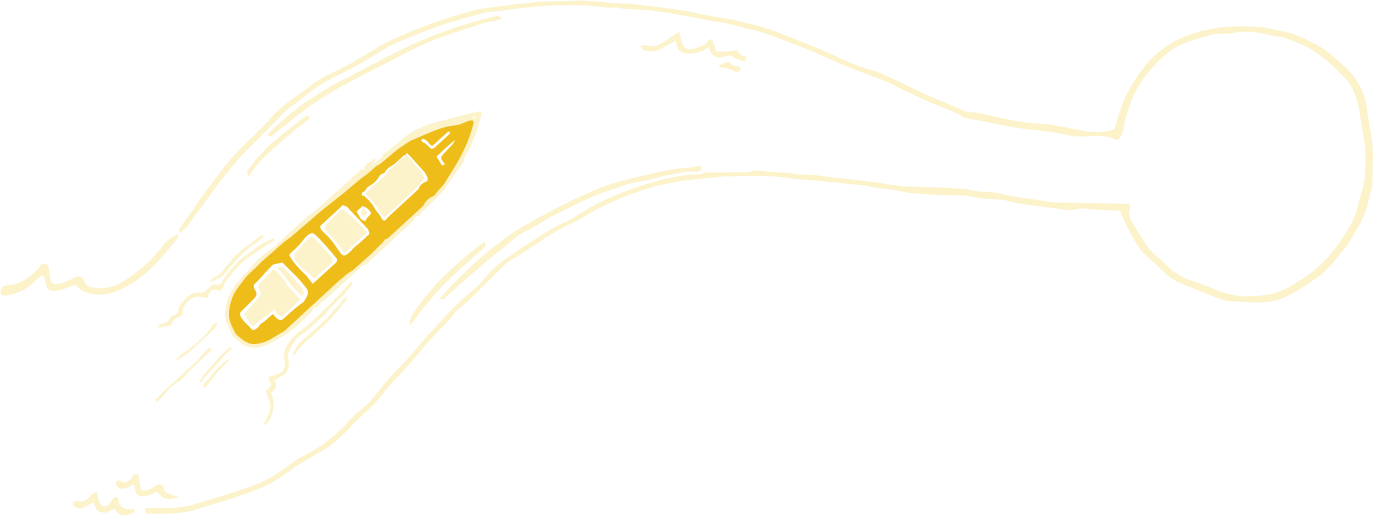
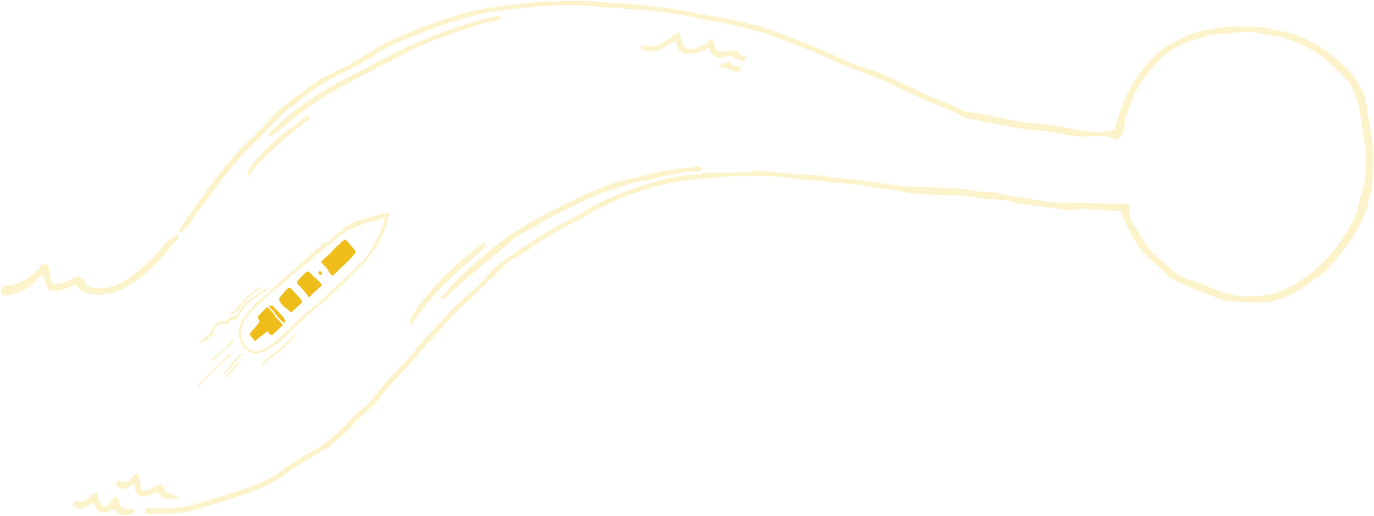
,

Changed region(s): [[0.1224, 0.2171, 0.3671, 0.7752]]

diff --git a/index.html b/index.html
@@ -276,6 +276,13 @@ body {
 }
 #rubberPolaroid img { display: block; width: 100%; aspect-ratio: 1/1; object-fit: cover; }
 
+#backBtn {
+  display: none; position: fixed; bottom: 2.5rem; left: 2.5rem; z-index: 50;
+  background: none; border: none; color: #fcf1ca; font-family: var(--font-mono);
+  font-size: 0.85rem; padding: 0; cursor: pointer; transition: color 0.2s; letter-spacing: 0.05em;
+}
+#backBtn:hover { color: #ffffff; }
+
 #journey { height: 500vh; position: relative; }
 #journey-sticky { position: sticky; top: 0; height: 100vh; overflow: hidden; }
 #journey-track { display: flex; height: 100%; will-change: transform; }
@@ -304,12 +311,28 @@ body {
 #reclaimedTrigger { transition: color 0.2s ease; }
 #reclaimedTrigger:hover { color: #ffffff !important; }
 
+/* Reclaimed / bio rubber info box */
+#reclaimed-info {
+  position: absolute;
+  top: 45%; left: 52vw;
+  transform: translateY(-50%) translateX(20px);
+  width: min(380px, 38vw);
+  background: transparent; border: none;
+  padding: 2rem 1.75rem; z-index: 6;
+  pointer-events: none; opacity: 0;
+  transition: opacity 0.4s ease, transform 0.4s ease;
+  text-align: left;
+}
+#reclaimed-info.visible { opacity: 1; transform: translateY(-50%) translateX(0); pointer-events: auto; }
+#reclaimed-info h3 { font-family: var(--font-display); font-size: 1.2rem; font-weight: 700; color: #eebc1c; margin-bottom: 0.75rem; line-height: 1.2; }
+#reclaimed-info p { color: #fcf1ca; font-size: 0.85rem; line-height: 1.7; }
+
 /* Manufacturing info box */
 #shipping-info {
   position: absolute;
-  top: 45%; right: 1vw;
+  top: 45%; right: -5vw;
   transform: translateY(-50%) translateX(20px);
-  width: min(380px, 36vw);
+  width: min(420px, 40vw);
   background: transparent; border: none;
   padding: 2rem 1.75rem; z-index: 6;
   pointer-events: none; opacity: 0;
@@ -353,9 +376,9 @@ body {
 /* Use info box — left-aligned, sits to the right of useshoes.png */
 #use-info {
   position: absolute;
-  top: 50%; right: 40vw;
+  top: 45%; right: 26vw;
   transform: translateY(-50%) translateX(20px);
-  width: min(340px, 32vw);
+  width: min(520px, 40vw);
   background: transparent; border: none;
   padding: 2rem 1.75rem; z-index: 6;
   pointer-events: none; opacity: 0;
@@ -376,14 +399,14 @@ body {
 /* Afterlife info box — left-aligned, sits to the right of afterlife.png */
 #afterlife-info {
   position: absolute;
-  top: 30%; right: auto; left: 45vw;
+  top: 30%; right: auto; left: 35vw;
   transform: translateY(-50%) translateX(20px);
-  width: min(340px, 32vw);
+  width: min(480px, 46vw);
   background: transparent; border: none;
   padding: 2rem 1.75rem; z-index: 6;
   pointer-events: none; opacity: 0;
   transition: opacity 0.4s ease, transform 0.4s ease;
-  text-align: left;
+  text-align: center;
 }
 #afterlife-info.visible { opacity: 1; transform: translateY(-50%) translateX(0); pointer-events: auto; }
 #afterlife-info h3 { font-family: var(--font-display); font-size: 1.2rem; font-weight: 700; color: #eebc1c; margin-bottom: 0.75rem; line-height: 1.2; }
@@ -392,16 +415,9 @@ body {
   margin-top: 1.2rem; font-family: var(--font-display); font-size: 1rem; font-weight: 700;
   color: #eebc1c; line-height: 1.3; cursor: pointer; pointer-events: auto;
   background: none; border: none; padding: 0; display: block; width: 100%;
-  text-align: left; transition: color 0.2s ease;
+  text-align: center; transition: color 0.2s ease;
 }
 #afterlifeContinueBtn:hover { color: #ffffff; }
-
-#backBtn {
-  display: none; position: fixed; bottom: 2.5rem; left: 2.5rem; z-index: 50;
-  background: none; border: none; color: #fcf1ca; font-family: var(--font-mono);
-  font-size: 0.85rem; padding: 0; cursor: pointer; transition: color 0.2s; letter-spacing: 0.05em;
-}
-#backBtn:hover { color: #ffffff; }
 
 .panel-label { position: absolute; bottom: 3rem; left: 2.5rem; z-index: 5; pointer-events: none; }
 .panel-label h2 {
@@ -409,17 +425,21 @@ body {
   font-weight: 700; color: #fff; line-height: 1.1; text-shadow: 0 2px 20px rgba(0,0,0,0.7);
 }
 
-#journey-dots {
-  position: absolute; bottom: 1.5rem; left: 50%;
-  transform: translateX(-50%); display: flex; gap: 0.75rem; z-index: 10;
+/* ── Status image progress tracker ── */
+#status-tracker {
+  position: fixed;
+  bottom: 1.2rem;
+  left: 0;
+  z-index: 50;
+  pointer-events: none;
+  transition: left 0.6s cubic-bezier(0.34, 1.56, 0.64, 1);
 }
-.jdot {
-  width: 8px; height: 8px; border-radius: 50%;
-  border: 1px solid var(--muted); background: transparent;
-  cursor: pointer; padding: 0;
-  transition: background 0.3s, border-color 0.3s, transform 0.3s;
+#status-tracker img {
+  height: 20px;
+  width: auto;
+  display: block;
+  opacity: 0.85;
 }
-.jdot.active { background: var(--accent); border-color: var(--accent); transform: scale(1.4); }
 
 #scroll-nudge {
   position: absolute; bottom: 1.4rem; right: 2rem;
@@ -434,7 +454,7 @@ body {
   #journey-sticky { position: relative; height: auto; overflow: visible; }
   #journey-track { flex-direction: column; transform: none !important; }
   .panel { height: 100vh; }
-  #journey-dots, #scroll-nudge { display: none; }
+  #scroll-nudge { display: none; }
   #shipping-info { right: auto; left: 5%; width: 90%; top: auto; bottom: 10%; transform: none; }
   #shipping-info.visible { transform: none; }
   #shippingText-info { left: 5%; width: 90%; top: 5%; transform: none; }
@@ -476,6 +496,11 @@ body {
     <img src="rubbertreefarm.jpg" alt="Rubber tree farm" />
   </div>
 
+  <!-- Status image progress tracker -->
+  <div id="status-tracker">
+    <img src="status.png" alt="Progress" />
+  </div>
+
   <button id="backBtn">← Back</button>
 
   <div id="journey">
@@ -488,8 +513,8 @@ body {
                style="position:absolute;bottom:8%;left:5vw;height:80%;width:auto;object-fit:contain;object-position:left bottom;pointer-events:none;z-index:1;transition:opacity 0.6s ease;" />
           <img id="makeshipImg" src="shoesmake.png" alt="Making and shipping"
                style="position:absolute;bottom:7%;right:23.5%;height:70%;width:50%;object-fit:contain;object-position:right bottom;pointer-events:none;z-index:1;opacity:0;transition:opacity 0.6s ease;" />
-          <img id="boatImg" src="sustainable rubber.png" alt="Reclaimed or recycled rubber"
-               style="position:absolute;bottom:8%;right:15%;height:50%;width:49.5%;object-fit:contain;object-position:right bottom;pointer-events:none;z-index:1;opacity:0;transition:opacity 0.6s ease;" />
+          <img id="boatImg" src="sustainable rubber.png" alt="Recycled or bio rubber"
+               style="position:absolute;bottom:20%;left:5vw;height:60%;width:auto;object-fit:contain;object-position:left bottom;pointer-events:none;z-index:2;opacity:0;transition:opacity 0.6s ease;" />
           <img id="shippingImg" src="shipping.png" alt="Shipping"
                style="position:absolute;bottom:14%;right:-25%;height:35%;width:auto;object-fit:contain;object-position:right bottom;pointer-events:none;z-index:1;opacity:0;transition:opacity 0.6s ease;" />
 
@@ -497,7 +522,7 @@ body {
             <h3>Making</h3>
             <p>Workers exposed to wood dust from the rubber tree without correct protection experience increased risk of nasal symptoms, wheeze, asthma and skin symptoms and have reduced spirometric lung function.</p>
             <p style="margin-top:1.2rem;font-size:0.7rem;letter-spacing:0.15em;text-transform:uppercase;color:#fcf1ca;opacity:0.6;">skip this step</p>
-            <p id="reclaimedTrigger" style="margin-top:0.3rem;font-family:var(--font-display);font-size:1rem;font-weight:700;color:#eebc1c;line-height:1.3;cursor:pointer;pointer-events:auto;">Buy reclaimed or recycled rubber</p>
+            <p id="reclaimedTrigger" style="margin-top:0.3rem;font-family:var(--font-display);font-size:1rem;font-weight:700;color:#eebc1c;line-height:1.3;cursor:pointer;pointer-events:auto;">Buy recycled or bio rubber</p>
           </div>
 
           <div id="shipping-info">
@@ -510,6 +535,13 @@ body {
             <h3>Shipping</h3>
             <p>The entirety of the manufacturing process, which includes material sourcing, production, transportation, and packaging, pumps millions of tons of CO2 into the atmosphere every year. Most shoe companies use cheap labour, shipping from warehouses based primarily in China, Indonesia, and India and then often sent to the U.S. for global distribution. According to Airportwatch and a DEFRA report, two tonnes of freight carried 1,000km by container ship produces 30kg of CO2, 42kg by diesel train, and a staggering 4,138kg by air.</p>
             <button id="shippingTextContinueBtn">Continue</button>
+          </div>
+
+          <div id="reclaimed-info">
+            <h3>Bio Rubber</h3>
+            <p>Bio-based synthetic rubber is eco-friendly, manufactured from renewable biomass inputs like sugarcane, corn, and forest waste, rather than fossil fuels. It produces a significantly lower carbon footprint while structurally matching petroleum-based synthetic rubbers. Synthesised rubber tend to be more common in the footwear industry than natural rubber, creating a great but underused alternative.</p>
+            <h3 style="margin-top:1.2rem;">Recycled Rubber</h3>
+            <p>Recycled rubber is a highly sustainable material created by processing scrap rubber, primarily from discarded vehicle tires. Through shredding, grinding, and bonding, it is repurposed into versatile, eco-friendly products. It helps reduce landfill waste. With companies like Ecoalf using exclusively recycled materials, including discarded rubber and ocean plastics to create their footwear.</p>
           </div>
         </div>
 
@@ -527,14 +559,16 @@ body {
           <!-- Use info box: right-aligned beside the useshoes image -->
           <div id="use-info">
             <h3>Use</h3>
-            <p>Your text about the use phase goes here. Write about wear patterns, microplastics shed during use, shoe care, how long shoes last, and the environmental impact of consumers buying and discarding shoes.</p>
+            <p>The shift toward fast fashion and synthetic materials like cheap polyurethane, EVA, and blended plastics has drastically reduced modern shoe durability compared to traditional leather and rubber construction. These unsustainable materials break down rapidly, lack resoling capabilities, and contribute to immense textile waste. Shoes 30 years ago were intended to last almost three times longer. </p>
             <button id="useContinueBtn">Continue</button>
           </div>
 
           <!-- Afterlife info box: beside the afterlife image -->
           <div id="afterlife-info">
             <h3>Afterlife</h3>
-            <p>Your text about the afterlife phase goes here. Write about landfill, recycling schemes, shoe donation, incineration, and what happens to the materials once a shoe is discarded.</p>
+            <p>An estimated 22 billion pairs of shoes are sent to landfill annually. 90% of shoes produced each year will eventually end up in landfill, many within the first 12 months of purchase. 
+
+Heavily synthetic materials like foamed rubber soles and certain plastics can take anywhere from 50 to over 1,000 years to fully degrade, leaching chemicals and microplastics into the environment. </p>
             <button id="afterlifeContinueBtn">The End</button>
           </div>
         </div>
@@ -547,12 +581,6 @@ body {
 
       </div>
 
-      <nav id="journey-dots">
-        <button class="jdot active" data-index="0"></button>
-        <button class="jdot" data-index="1"></button>
-        <button class="jdot" data-index="2"></button>
-        <button class="jdot" data-index="3"></button>
-      </nav>
       <p id="scroll-nudge">scroll to continue →</p>
     </div>
   </div>
@@ -742,6 +770,7 @@ if (shoeCanvas) {
 
 /* ── scene element refs ── */
 var makingInfo              = document.getElementById('making-info');
+var rubberTreesImg          = document.getElementById('rubberTreesImg');
 var makeshipImg             = document.getElementById('makeshipImg');
 var boatImg                 = document.getElementById('boatImg');
 var shippingImg             = document.getElementById('shippingImg');
@@ -752,12 +781,29 @@ var shippingInfo            = document.getElementById('shipping-info');
 var shippingContinueBtn     = document.getElementById('shippingContinueBtn');
 var shippingTextInfo        = document.getElementById('shippingText-info');
 var shippingTextContinueBtn = document.getElementById('shippingTextContinueBtn');
+var reclaimedInfo           = document.getElementById('reclaimed-info');
 var useInfo                 = document.getElementById('use-info');
 var useContinueBtn          = document.getElementById('useContinueBtn');
 var afterlifeInfo           = document.getElementById('afterlife-info');
 var afterlifeContinueBtn    = document.getElementById('afterlifeContinueBtn');
 var makingChoice            = null;
 var manufacturingStep       = false;
+
+/* ── Status tracker ── */
+var statusTracker = document.getElementById('status-tracker');
+var STATUS_TOTAL_STEPS = 5;
+var statusCurrentStep  = 0;
+
+function setStatusStep(step) {
+  statusCurrentStep = Math.max(0, Math.min(step, STATUS_TOTAL_STEPS));
+  var imgWidth = 48;
+  var margin   = 16;
+  var usableWidth = window.innerWidth - imgWidth - margin * 2;
+  var leftPx = margin + (statusCurrentStep / STATUS_TOTAL_STEPS) * usableWidth;
+  statusTracker.style.left = leftPx + 'px';
+}
+
+setStatusStep(0);
 
 /* ── scroll to a specific panel index ── */
 function scrollToPanel(idx) {
@@ -790,12 +836,14 @@ function resetMakingScene() {
   if (backBtn)       backBtn.style.display       = 'none';
   if (shippingInfo)     shippingInfo.classList.remove('visible');
   if (shippingTextInfo) shippingTextInfo.classList.remove('visible');
+  if (reclaimedInfo)    reclaimedInfo.classList.remove('visible');
   if (useInfo)          useInfo.classList.remove('visible');
   if (afterlifeInfo)    afterlifeInfo.classList.remove('visible');
+  if (rubberTreesImg)   rubberTreesImg.style.opacity = '1';
   if (makeshipImg)      makeshipImg.style.right  = '33%';
+  setStatusStep(0);
 }
 
-/* Manufacturing Continue → show shipping image + shipping text box */
 function showShippingStep() {
   if (shippingInfo)     shippingInfo.classList.remove('visible');
   if (makeshipImg)      makeshipImg.style.opacity  = '1';
@@ -803,9 +851,9 @@ function showShippingStep() {
   if (shippingTextInfo) shippingTextInfo.classList.add('visible');
   manufacturingStep = false;
   scrollNudge(0.12);
+  setStatusStep(2);
 }
 
-/* Shipping Continue → scroll to Use panel, show useshoes.png + use info box */
 function showUseStep() {
   if (shippingTextInfo) shippingTextInfo.classList.remove('visible');
   scrollToPanel(1);
@@ -813,20 +861,21 @@ function showUseStep() {
     if (useShoesImg) useShoesImg.style.opacity = '1';
     if (useInfo)     useInfo.classList.add('visible');
   }, 700);
+  setStatusStep(3);
 }
 
-/* Use Continue → show afterlife.png + afterlife info box in same panel, no scroll */
 function showAfterlifeStep() {
   if (useInfo) useInfo.classList.remove('visible');
   if (afterlifeImg)  afterlifeImg.style.opacity = '1';
   if (afterlifeInfo) afterlifeInfo.classList.add('visible');
+  setStatusStep(4);
 }
 
-/* Afterlife Continue → scroll to final panel */
 function showEnd() {
   if (afterlifeInfo) afterlifeInfo.classList.remove('visible');
   if (afterlifeImg)  afterlifeImg.style.opacity = '0';
   scrollToPanel(3);
+  setStatusStep(5);
 }
 
 function showMakingScene(choice) {
@@ -842,13 +891,17 @@ function showMakingScene(choice) {
     if (shippingTextInfo) shippingTextInfo.classList.remove('visible');
     if (shippingInfo)     shippingInfo.classList.add('visible');
     scrollNudge(0.18);
+    setStatusStep(1);
   } else if (choice === 'reclaimed') {
     manufacturingStep = false;
-    if (boatImg)          boatImg.style.opacity      = '1';
-    if (makeshipImg)      makeshipImg.style.opacity  = '0';
-    if (shippingImg)      shippingImg.style.opacity  = '0';
+    if (rubberTreesImg)   rubberTreesImg.style.opacity  = '0';
+    if (boatImg)          boatImg.style.opacity          = '1';
+    if (makeshipImg)      makeshipImg.style.opacity      = '0';
+    if (shippingImg)      shippingImg.style.opacity      = '0';
     if (shippingInfo)     shippingInfo.classList.remove('visible');
     if (shippingTextInfo) shippingTextInfo.classList.remove('visible');
+    if (reclaimedInfo)    reclaimedInfo.classList.add('visible');
+    setStatusStep(1);
   }
 }
 
@@ -872,7 +925,6 @@ if (backBtn) {
 var journey    = document.getElementById('journey');
 var track      = document.getElementById('journey-track');
 var nudge      = document.getElementById('scroll-nudge');
-var jdots      = document.querySelectorAll('.jdot');
 var PANEL_COUNT = 4, LERP = 0.08;
 var currentX = 0, targetX = 0, nudgeHidden = false;
 
@@ -943,23 +995,11 @@ function tick() {
   if (Math.abs(currentX - targetX) < 0.3) currentX = targetX;
   if (track) track.style.transform = 'translateX(-' + currentX + 'px)';
 
-  var ai = Math.round(p * (PANEL_COUNT - 1));
-  jdots.forEach(function(d, i) { d.classList.toggle('active', i === ai); });
   if (!nudgeHidden && rawP > 0.001) { nudgeHidden = true; if (nudge) nudge.classList.add('hide'); }
   updateInfoBox();
   requestAnimationFrame(tick);
 }
 if (journey && track) requestAnimationFrame(tick);
-
-jdots.forEach(function(dot, idx) {
-  dot.addEventListener('click', function() {
-    if (!journey) return;
-    if (makingChoice === null && idx > 0) return;
-    var total = journey.offsetHeight - window.innerHeight;
-    var top   = journey.getBoundingClientRect().top + window.scrollY;
-    window.scrollTo({ top: top + (idx / (PANEL_COUNT - 1)) * total, behavior: 'smooth' });
-  });
-});
 
 var reclaimedTrigger = document.getElementById('reclaimedTrigger');
 var makingInfoBox    = document.getElementById('making-info');
@@ -986,6 +1026,10 @@ if (reclaimedTrigger) {
 if (makingInfoBox) {
   makingInfoBox.addEventListener('click', function(e) { e.stopPropagation(); });
 }
+
+window.addEventListener('resize', function() {
+  setStatusStep(statusCurrentStep);
+});
   </script>
 
 </body>
